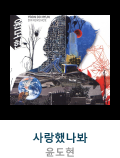
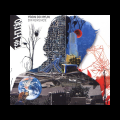
cyword-html+js+css

diff --git a/cyworld/jukebox.html b/cyworld/jukebox.html
@@ -6,77 +6,77 @@
 </head>
 <body>
     <div class="wrapper">
-        <div class="wrapper__header">
-            <div class="header__title">
-                <div class="title">추억의 BGM</div>
-                <div class="subtitle">TODAY CHOICE</div>
-            </div>
-        <div class="divideLine"></div>
-            <div class="wrapper__top">
-                <div class="wrapper__body__top">
-                    <img src="./images/jukebox-01.png">
-                    <img src="./images/jukebox-02.png">
-                    <img src="./images/jukebox-03.png">
-                </div>
-            </div>
-        </div>
-        <div class="wrapper__body__bottom">
+        <div class="wrapper__top">
             <div class="wrapper__header">
                 <div class="header__title">
                     <div class="title">추억의 BGM</div>
                     <div class="subtitle">TODAY CHOICE</div>
                 </div>
+            </div>    
+            <div class="deadline"></div>
+            <div class="album__top">
+                <div class="album">
+                    <img src="./images/jukebox-01.png">
+                    <div class="album__top__title">Y(Please Tell Me Why)</div>
+                    <div class="album__top__artist">프리스타일</div>
+                </div>
+                <div class="album">
+                    <img src="./images/jukebox-02.png">
+                    <div class="album__top__title">눈의 꽃</div>
+                    <div class="album__top__artist">박효신</div>
+                </div>
+                <div class="album">
+                    <img src="./images/jukebox-03.png">
+                    <div class="album__top__title">사랑했나봐</div>
+                    <div class="album__top__artist">윤도현</div>
+                </div>
             </div>
-            <table class="album">
+        </div>
+        <div class="wrapper__bottom">
+            <div class="wrapper__header">
+                <div class="header__title">
+                    <div class="title">추억의 BGM</div>
+                    <div class="subtitle">TODAY CHOICE</div>
+                </div>
+            </div> 
+            <table class="album__table">
                 <tr>
-                    <th>
-                        <input type="checkbox">
-                    </th>
-                    <th class="num">번호</th>
-                    <th>곡명</th>
-                    <th>아티스트</th>
+                    <th class="album__chk"><input type="checkbox"></th>
+                    <th class="album__no">번호</th>
+                    <th class="album__title">곡명</th>
+                    <th class="album__artist">아티스트</th>
                 </tr>
                 <tr>
-                    <td>
-                        <input type="checkbox">
-                    </td>
-                    <td class="num">1</td>
-                    <td>눈의꽃</td>
-                    <td>박효신</td>
+                    <td class="album__chk"><input type="checkbox"></td>
+                    <td class="album__no">1</td>
+                    <td class="album__title">눈의 꽃</td>
+                    <td class="album__artist">박효신</td>
                 </tr>
                 <tr>
-                    <td>
-                        <input type="checkbox">
-                    </td>
-                    <td class="num">2</td>
-                    <td>사랑스러워</td>
-                    <td>김종국</td>
+                    <td class="album__chk"><input type="checkbox"></td>
+                    <td class="album__no">2</td>
+                    <td class="album__title">사랑스러워</td>
+                    <td class="album__artist">김종국</td>
                 </tr>
                 <tr>
-                    <td>
-                        <input type="checkbox">
-                    </td>
-                    <td class="num">3</td>
-                    <td>내사람: Partner For Life</td>
-                    <td>SG 워너비</td>
+                    <td class="album__chk"><input type="checkbox"></td>
+                    <td class="album__no">3</td>
+                    <td class="album__title">내사람:Partner For Life</td>
+                    <td class="album__artist">SG 워너비</td>
                 </tr>
                 <tr>
-                    <td>
-                        <input type="checkbox">
-                    </td>
-                    <td class="num">4</td>
-                    <td>Love Love Love</td>
-                    <td>에픽하이</td>
+                    <td class="album__chk"><input type="checkbox"></td>
+                    <td class="album__no">4</td>
+                    <td class="album__title">Love Love Love</td>
+                    <td class="album__artist">에픽하이</td>
                 </tr>
                 <tr>
-                    <td>
-                        <input type="checkbox">
-                    </td>
-                    <td class="num">5</td>
-                    <td>애인...있어요</td>
-                    <td>이은미</td>
+                    <td class="album__chk"><input type="checkbox"></td>
+                    <td class="album__no">5</td>
+                    <td class="album__title">애인...있어요</td>
+                    <td class="album__artist">이은미</td>
                 </tr>
-            </table>  
+            </table>
         </div>    
     </div>   
 </body>

diff --git a/cyworld/styles/jukebox.css b/cyworld/styles/jukebox.css
@@ -14,20 +14,16 @@ html, body {
     height: 100%;
     display: flex;
     flex-direction: column;
-    align-items: center;
     justify-content: space-between;
-    padding: 20px 30px;
-}
-
-.wrapper__header {
-    width: 100%;
-    padding-bottom: 10px;
+    padding: 20px 46px 46px 29px;
 }
 
 .header__title {
+    width: 100%;
     display: flex;
     flex-direction: row;
     align-items: center;
+    padding-bottom: 8px;
 }
 
 .title {
@@ -41,41 +37,79 @@ html, body {
     padding-left: 5px;
 }
 
-.divideLine {
+.deadline {
     width: 100%;
-    border-top: solid 1px gray;
+    border-top: 1px solid gray;
+    padding-bottom: 20px;
 }
 
-.wrapper__top {
+.album__top {
     width: 100%;
     display: flex;
     flex-direction: row;
     justify-content: space-evenly;
-    padding-top: 5px;
 }
 
-.wrapper__body__bottom {
-    width: 100%;
-    text-align: left;
-    display: flex;
-    flex-direction: column;
+.album__top__title {
+    color: #0F465E;
+    font-size: 11px;
+    font-weight: 700;
+    text-align: center;
+    padding-top: 10px;
 }
 
-.album th {
-    border-top: solid 1px gray;
-    border-bottom: dashed 1px gray;
+.album__top__artist {
     color: #999;
     font-size: 10px;
     font-weight: 700;
+    text-align: center;
 }
 
-.album td {
-    border-bottom: dashed 1px black;
+.wrapper__bottom {
+    padding-top: 30px;
+}
+
+.album__table {
+    width: 100%;
+    border-collapse: collapse;
+}
+
+.album__table th{
+    height: 20px;
+    color: #999;
+    font-size: 10px;
+    font-weight: 700;
+    border-top: 1px solid gray;
+    border-bottom: 1px dashed gray;
+}
+
+.album__table td{
+    height: 20px;
     color: #0F465E;
     font-size: 10px;
     font-weight: 400;
-    }
+    border-bottom: 1px dashed gray;
+}
 
-.num {
+.album__chk {
     text-align: center;
+}
+
+.album__no {
+    text-align: center;
+}
+
+.album__title {
+    text-align: left;
+}
+
+.album__artist {
+    text-align: left;
+    vertical-align: middle;
+}
+
+input[type="checkbox"] {
+    vertical-align: middle;
+    width: 9px;
+    height: 9px;
 }

diff --git a/cyworld/index.html b/cyworld/index.html
@@ -59,7 +59,7 @@
                         </div>
                     </div>
                     <div class="wrapper__right__body">
-                        <iframe id="contentFrame" src="./home.html"></iframe> <!--<iframe>에 표시되는 내용을 다른 html로 표시될 수 있도록 함-->
+                        <iframe id="contentFrame" src="./jukebox.html"></iframe> <!--<iframe>에 표시되는 내용을 다른 html로 표시될 수 있도록 함-->
                     </div>
                 </div>
                 <div class="navigation">

diff --git a/cyworld/game.html b/cyworld/game.html
@@ -23,6 +23,7 @@
                 <button class="search" onclick="start__word()">입력</button>
             </div>
             <div class="word__result" id="result">결과!</div>
+            
         </div>
         <div class="game__container">
             <img src="./images/lotto.png">

diff --git a/cyworld/styles/game.css b/cyworld/styles/game.css
@@ -79,7 +79,7 @@ html, body {
     width: 100%;
     display: flex;
     flex-direction: row;
-    justify-content: space-between;
+    justify-content: space-evenly;
 }
 
 .text__box {
